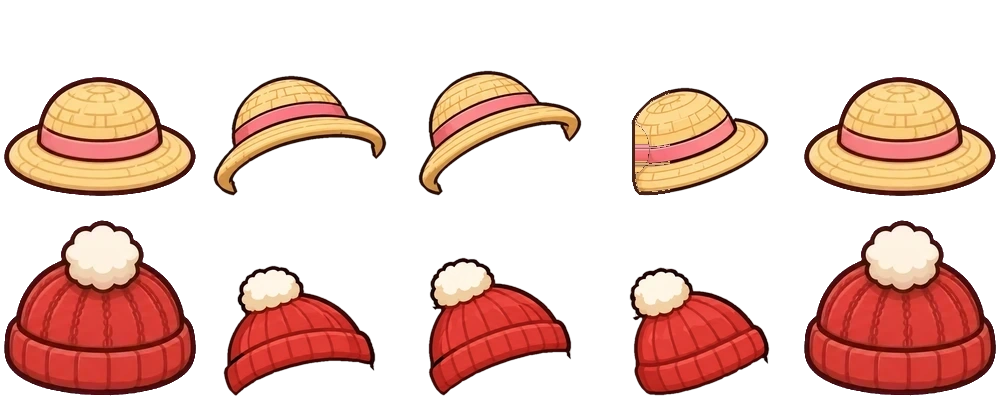
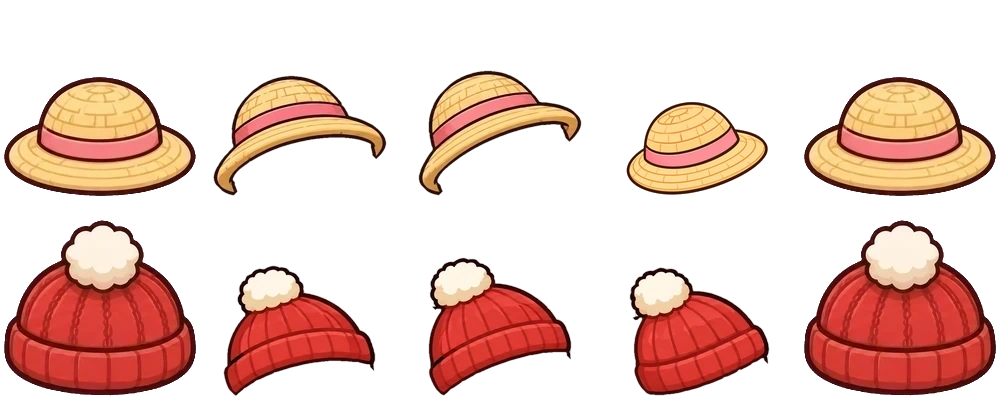
Dress-up: full brim on back-3/4 straw hat, bob/braids faces lined up with ponytail head, ponytail tie tucked under the hat
Claude-Session: https://claude.ai/code/session_01WYXHXwKxHQowMAYmWZLpUL

Changed region(s): [[0.62, 0.21, 0.775, 0.51]]

diff --git a/index.html b/index.html
@@ -366,7 +366,7 @@ document.addEventListener('visibilitychange',()=>{if(document.hidden)window.__hi
 <script>
 // ---- UI icon set (ui_icons.webp, 18 cells in one row) — emoji are shown until it loads ----
 // bump ASSET_V whenever an icon/emote picture changes, so phones download the new one instead of a cached copy
-var ASSET_V='20261121q';
+var ASSET_V='20261121r';
 const IC_N=['logo','pad','freeze','hide','zombie','fire','flash','run','shirt','gear','globe','trophy','girl','boy','jump','tag','logout','hello'];
 const IC={},IC_C={};
 function icFrom(img,i,name){const n=img.height,c=document.createElement('canvas');c.width=c.height=n;c.getContext('2d').drawImage(img,i*n,0,n,n,0,0,n,n);IC_C[name]=c;IC[name]=c.toDataURL();}
@@ -623,8 +623,18 @@ function bakeWear(cv,sheetKey,w,dir){const a=ANCH&&ANCH[dir]&&ANCH[dir][SHEET_OF
   for(let i=0;i<n;i++){const f=a[i];if(!f)continue;const [cx,top,eyes]=f,view=sheetKey==='idle'||sheetKey==='act'?IDLE_VIEW[i]:SHEET_OF[sheetKey],ox=i*FRAME_W;
     if(w.glasses!=='none'&&eyes.length&&view!=='up'&&view!=='ur')drawSpecs(g,ox,eyes,view,w.glasses);
     if(w.hat!=='none'&&HAT_IMG.complete&&HAT_IMG.naturalWidth){const H=HAT_FIT[w.hat],[hw,dx,dy]=H.v[view],cs=HAT_IMG.height/2,sx=HAT_COL[view]*cs,sy=H.row*cs;
-      const k=hw/(cs*.96),hh=cs*k,w2=cs*k;let x=ox+cx+dx-hw/2-cs*.02*k;g.save();g.beginPath();g.rect(ox,0,FRAME_W,cv.height);g.clip();g.drawImage(HAT_IMG,sx,sy,cs,cs,x,top+dy-hh+4*k,w2,hh);g.restore();}}
+      const k=hw/(cs*.96),hh=cs*k,w2=cs*k;let x=ox+cx+dx-hw/2-cs*.02*k;
+      if(view==='dr')tuckHair(g,ox,HAT_IMG,sx,sy,cs,x,top+dy-hh+4*k,w2,hh);
+      g.save();g.beginPath();g.rect(ox,0,FRAME_W,cv.height);g.clip();g.drawImage(HAT_IMG,sx,sy,cs,cs,x,top+dy-hh+4*k,w2,hh);g.restore();}}
   return cv;}
+// hide the ponytail tie that would poke up out of the hat in 3/4 views: hair above the brim line, beside the hat, is cleared
+function tuckHair(g,ox,img,sx,sy,cs,x,y,w,h){const t=document.createElement('canvas');t.width=FRAME_W;t.height=FRAME_H;const tg=t.getContext('2d');tg.drawImage(img,sx,sy,cs,cs,x-ox,y,w,h);
+  const ha=tg.getImageData(0,0,FRAME_W,FRAME_H).data;let y0=FRAME_H,y1=0,x0=FRAME_W,x1=0;
+  for(let yy=0;yy<FRAME_H;yy++)for(let xx=0;xx<FRAME_W;xx++)if(ha[(yy*FRAME_W+xx)*4+3]>60){y0=Math.min(y0,yy);y1=Math.max(y1,yy);x0=Math.min(x0,xx);x1=Math.max(x1,xx);}
+  if(y1<=y0)return;const cut=y0+(y1-y0)*.62,d=g.getImageData(ox,0,FRAME_W,FRAME_H),p=d.data;
+  for(let yy=0;yy<cut;yy++)for(let xx=0;xx<FRAME_W;xx++){const i=(yy*FRAME_W+xx)*4;if(ha[i+3]>60||!p[i+3])continue;
+    const v=Math.max(p[i],p[i+1],p[i+2]);if(v<110||(p[i]>150&&p[i+1]<90))p[i+3]=0;}   // dark hair or the red hair tie
+  g.putImageData(d,ox,0);}
 function drawSpecs(g,ox,eyes,view,kind='round'){const thick=kind==='thick';g.save();g.lineWidth=thick?4.8:2.6;g.strokeStyle=thick?'#1a1414':'#2a2a2a';g.lineJoin='round';
   for(const [x,y,r] of eyes){g.beginPath();if(thick)g.roundRect(ox+x-r*1.75,y-r*1.4,r*3.5,r*2.8,r*.9);else g.ellipse(ox+x,y,r*1.55,r*1.35,0,0,7);g.fillStyle='rgba(200,230,255,.22)';g.fill();g.stroke();}
   if(eyes.length===2){const [a,b]=eyes;g.beginPath();g.moveTo(ox+a[0]+a[2]*1.5,a[1]-a[2]*.3);g.quadraticCurveTo(ox+(a[0]+b[0])/2,(a[1]+b[1])/2-a[2]*.9,ox+b[0]-b[2]*1.5,b[1]-b[2]*.3);g.stroke();}
